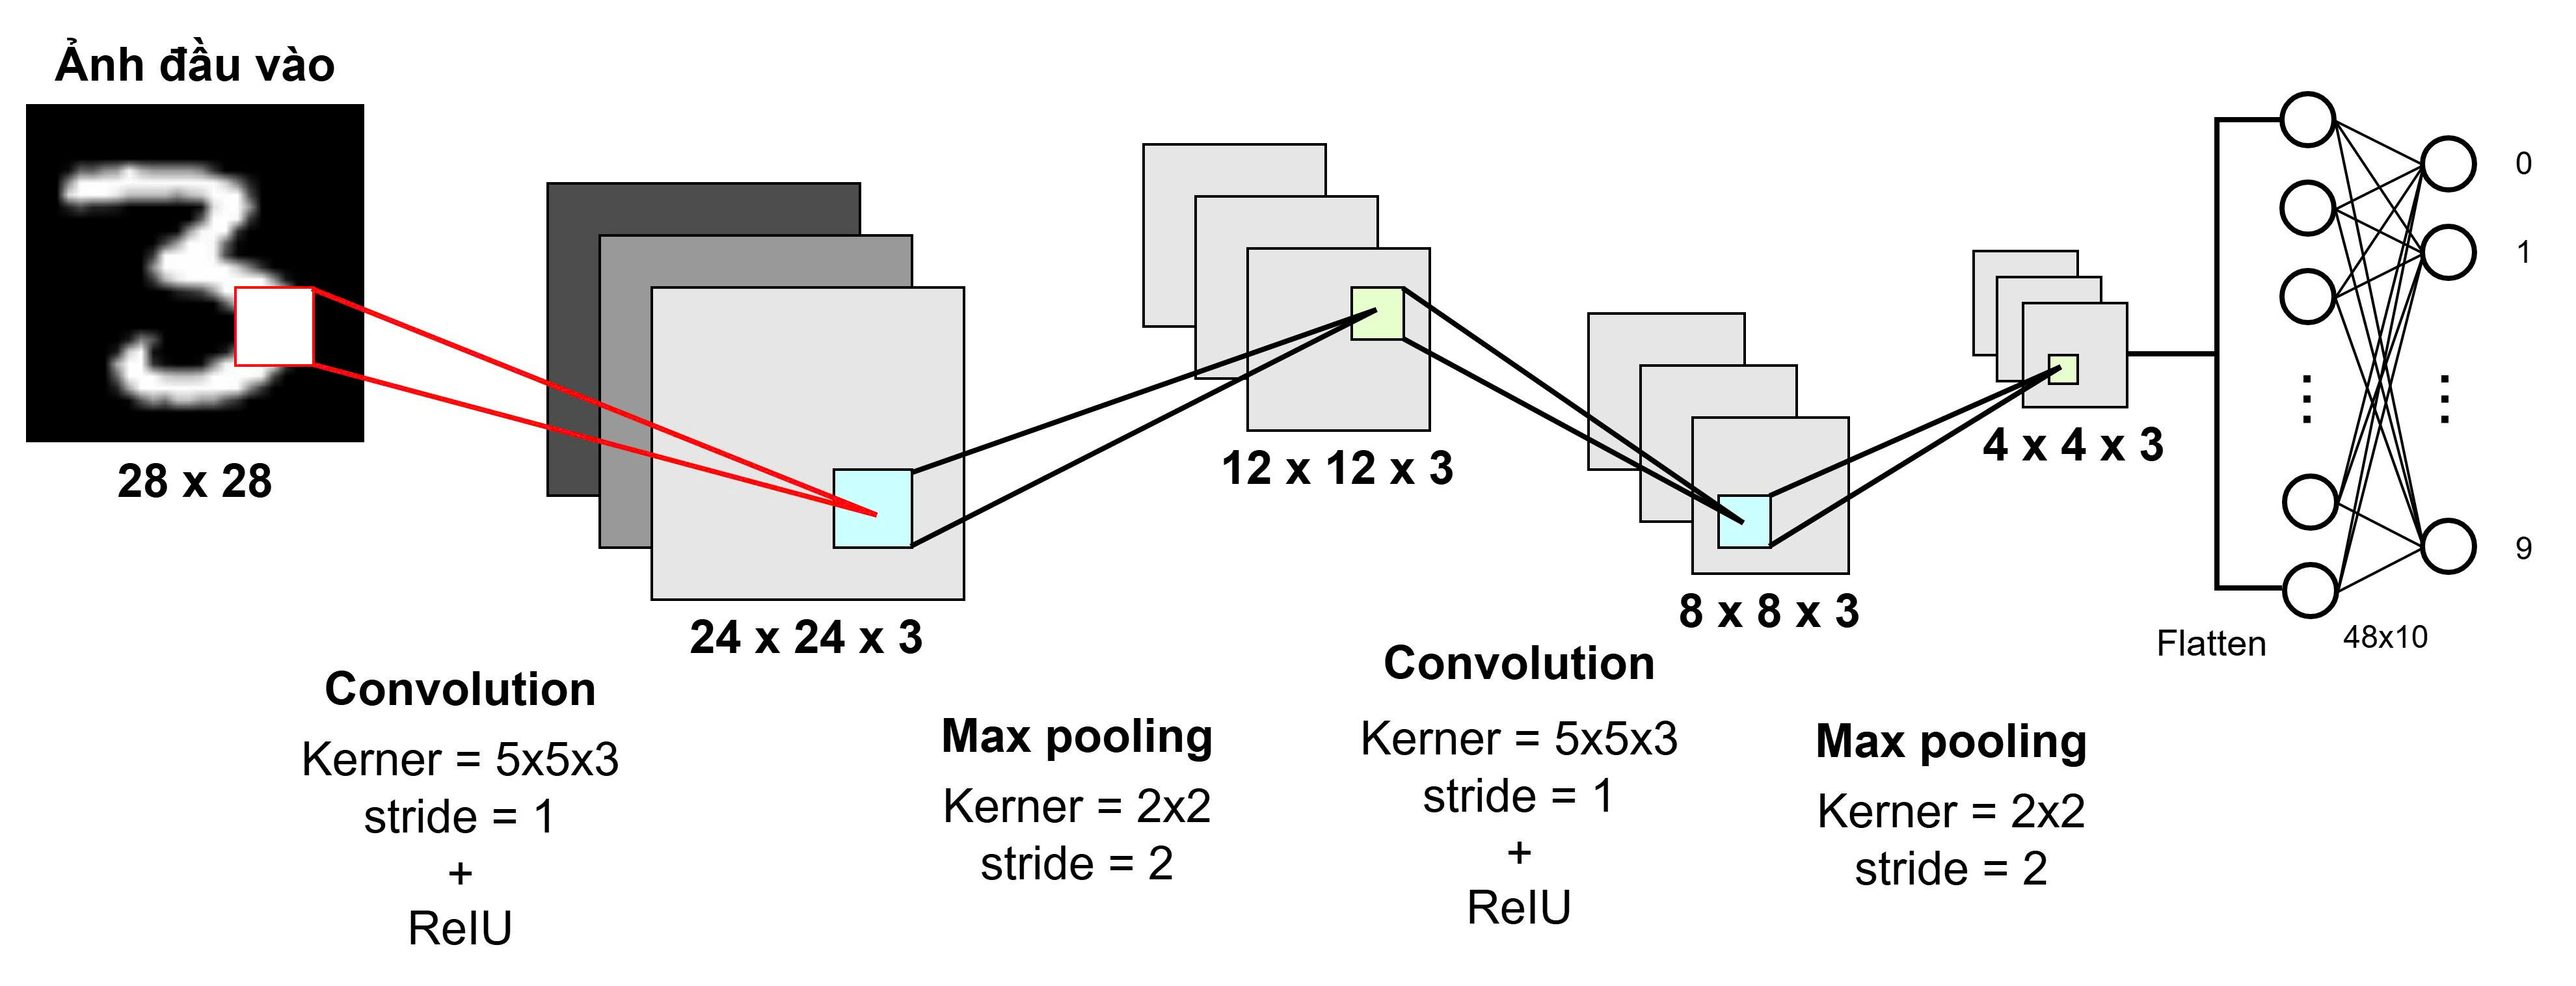
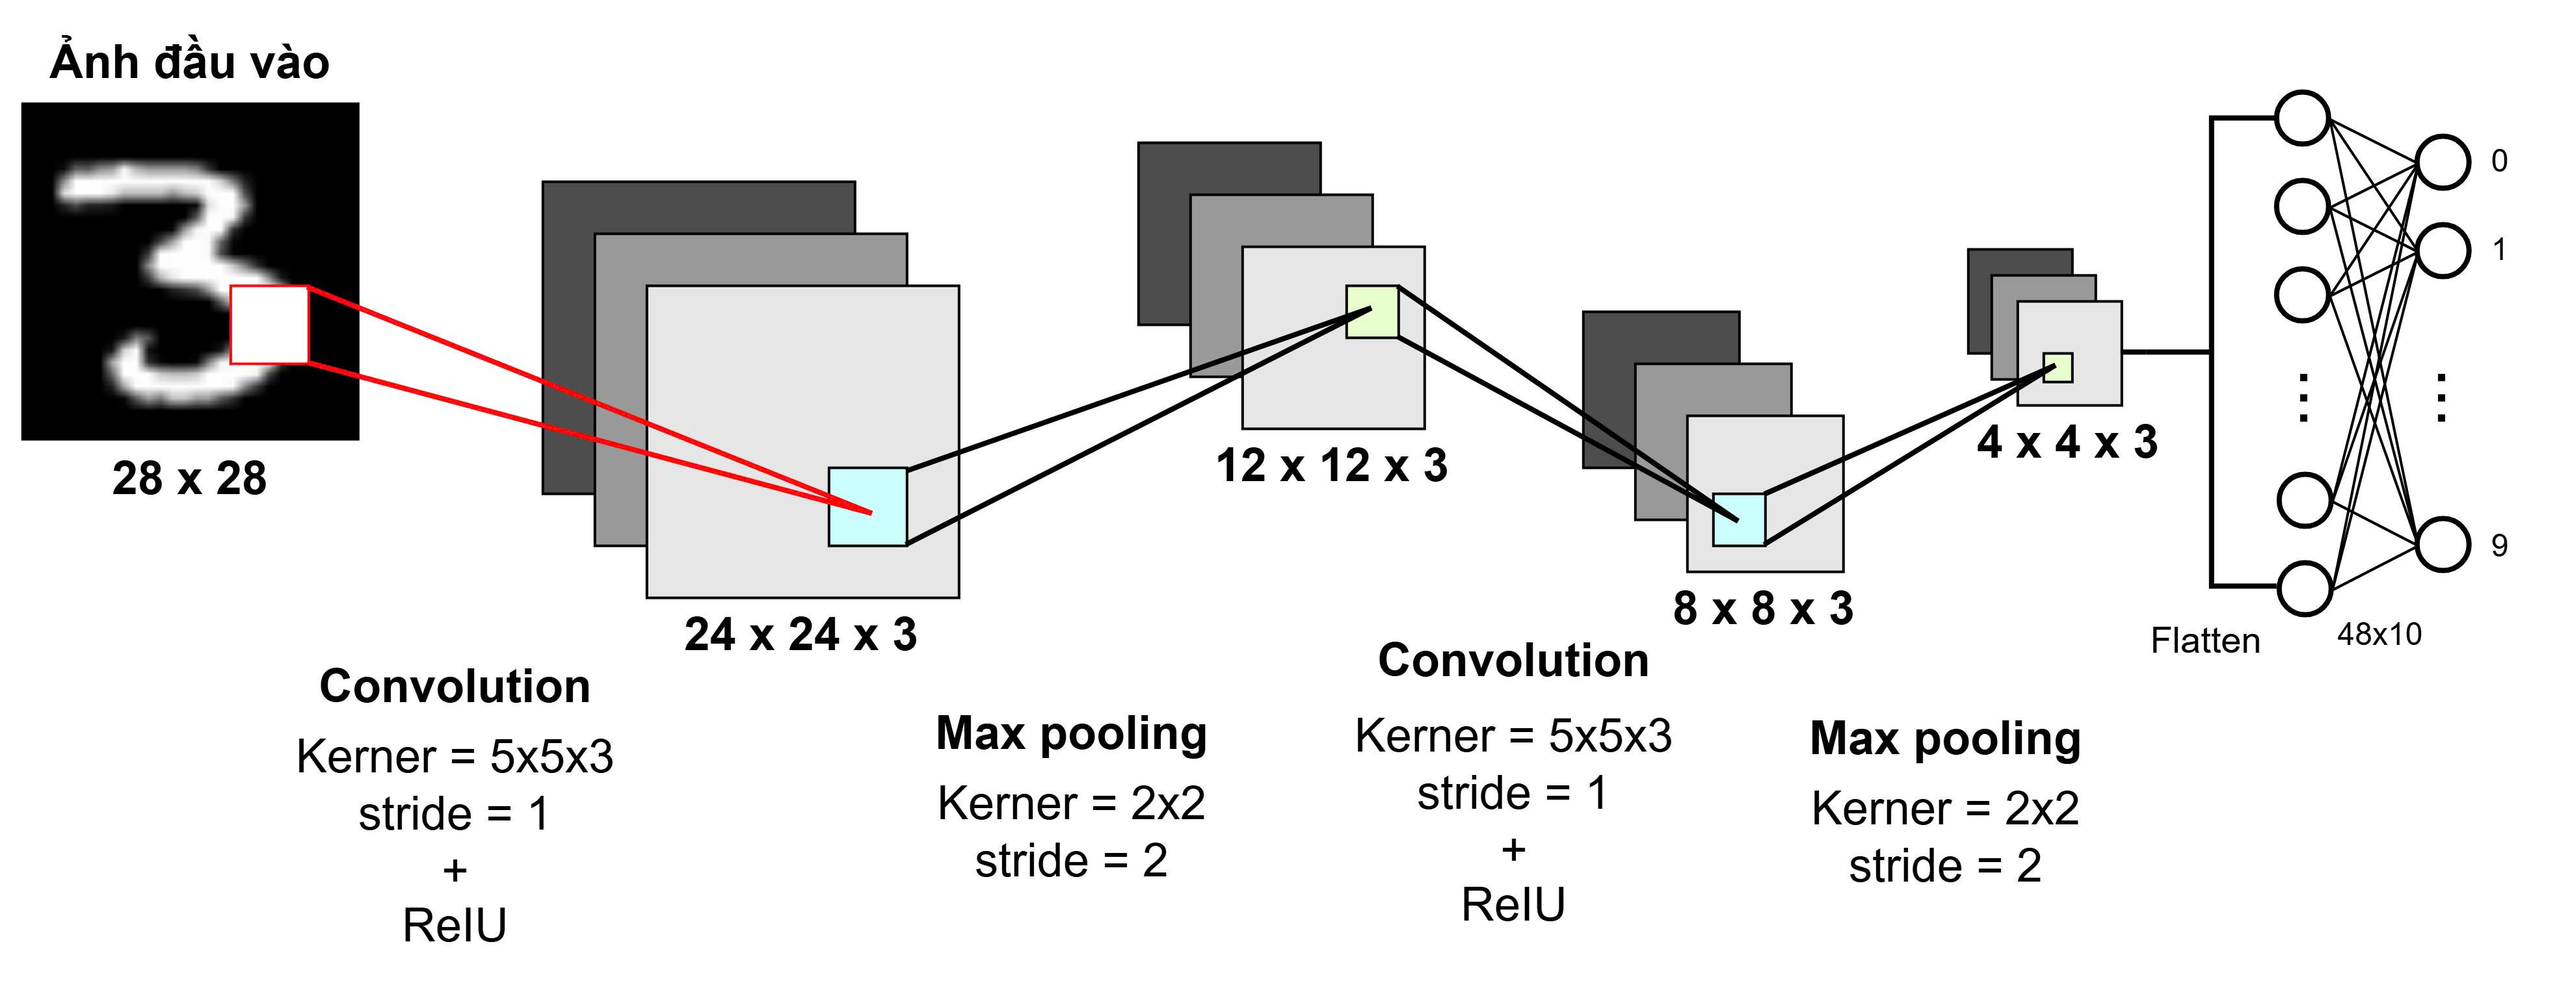
260903

diff --git a/Vid2/readme.md b/Vid2/readme.md
@@ -26,7 +26,7 @@ Khi thiết kế bộ tăng tốc CNN trên FPGA, **số lượng tham số (Wei
 flowchart TD
     subgraph OnChip["Bộ nhớ nội (On-chip Block RAM / BRAM)"]
         B1["Dung lượng giới hạn (Vài trăm KB đến vài MB)"]
-        B2["Băng thông cực cao (Truy xuất song song đa cổng)"]
+        B2["Băng thông cao (Truy xuất song song đa cổng)"]
         B3["Độ trễ thấp (1-2 chu kỳ xung nhịp)"]
         B4["Điều khiển trực tiếp từ RTL dễ dàng"]
     end
@@ -67,14 +67,14 @@ Khi tìm kiếm các kiến trúc mô hình CNN trên GitHub hoặc tài liệu 
 ├──────────────────────────────────────┤  ├──────────────────────────────────────┤
 │ • Dùng ít loại layer cơ bản:         │  │ • Dùng nhiều loại layer phức tạp:    │
 │   Conv standard, MaxPool, Dense      │  │   Separable Conv, Depthwise, Dropout │
-│ • Thiết kế HDL (Verilog) ĐƠN GIẢN    │  │ • Thiết kế HDL CỰC KỲ PHỨC TẠP       │
-│ • Tốn nhiều thanh ghi/BRAM hơn       │  │ • Tiết kiệm tham số nhưng tốn công    │
+│ • Thiết kế HDL (Verilog) ĐƠN GIẢN    │  │ • Thiết kế HDL PHỨC TẠP              │
+│ • Tốn nhiều thanh ghi/BRAM hơn       │  │ • Tiết kiệm tham số nhưng tốn công   │
 └──────────────────────────────────────┘  └──────────────────────────────────────┘
 ```
 
 ### Nguyên tắc đánh đổi (Trade-off) trong thiết kế phần cứng:
-* Thiết kế phần cứng bằng ngôn ngữ mô tả phần cứng thuần (Pure HDL như Verilog/VHDL) là một công việc tốn rất nhiều thời gian và công sức (tedious and time-consuming).
-* Một mô hình dù có số tham số ít hơn nhưng nếu sử dụng quá nhiều loại layer "lạ" (như Depthwise Separable Conv, Group Conv, v.v.) sẽ đòi hỏi viết và kiểm thử rất nhiều module RTL riêng biệt.
+* Thiết kế phần cứng bằng ngôn ngữ mô tả phần cứng thuần (Pure HDL như Verilog/VHDL) là một công việc tốn nhiều thời gian và công sức (tedious and time-consuming).
+* Một mô hình dù có số tham số ít hơn nhưng nếu sử dụng quá nhiều loại layer "lạ" (như Depthwise Separable Conv, Group Conv, v.v.) sẽ đòi hỏi viết và kiểm thử nhiều module RTL riêng biệt.
 * Ngược lại, một mô hình có số tham số vừa phải nhưng sử dụng **các layer chuẩn, đồng nhất (Uniform Layers)** sẽ giúp:
   - Tái sử dụng được module phần cứng (ví dụ: dùng chung logic Conv và MaxPool).
   - Rút ngắn thời gian phát triển và đóng gói RTL.
@@ -88,7 +88,7 @@ Khi tìm kiếm các kiến trúc mô hình CNN trên GitHub hoặc tài liệu 
   <img src="pic1.jpg" alt="pic1" width="900">
 </p>
 
-Trong dự án này, mô hình được tối ưu với quy mô **dưới 1000 tham số** (chính xác là **796 tham số**), đảm bảo chạy cực nhẹ và hiệu quả trên FPGA:
+Trong dự án này, mô hình được tối ưu với quy mô **dưới 1000 tham số** (chính xác là **796 tham số**), đảm bảo chạy nhẹ và hiệu quả trên FPGA:
 
 ```mermaid
 flowchart LR
@@ -188,7 +188,7 @@ $$\text{Tổng số tham số} = 78 + 228 + 490 = \mathbf{796 \text{ parameters}
   - $796$ tham số dạng 8-bit (`int8`) chỉ chiếm chưa đầy **800 Bytes**.
   - Dung lượng này hoàn toàn nằm gọn trong vài lát LUT hoặc 1 khối BRAM nhỏ nhất của bất kỳ chip FPGA nào (Zynq-7000, UltraScale+, Gowin GW2A-18C).
 * **Độ chính xác (Accuracy):**
-  - Mặc dù số tham số siêu nhỏ ($<1000$), mô hình vẫn đạt độ chính xác **$96\%$ trên tập kiểm thử MNIST (Test set)**.
+  - Mặc dù số tham số nhỏ ($<1000$), mô hình vẫn đạt độ chính xác **$96\%$ trên tập kiểm thử MNIST (Test set)**.
   - Đây là mức cân bằng lý tưởng (sweet spot) giữa hiệu năng nhận dạng và độ phức tạp phần cứng cho các hệ thống nhúng / Edge AI.
 
 ---

diff --git a/Vid1/readme.md b/Vid1/readme.md
@@ -47,9 +47,9 @@ flowchart TD
     end
 
     subgraph FPGA["FPGA (Field-Programmable Gate Array)"]
-        F1["Tiêu thụ điện năng cực thấp (Low Power)"]
+        F1["Tiêu thụ điện năng thấp (Low Power)"]
         F2["Khả năng xử lý song song tuỳ biến (Custom Parallelism)"]
-        F3["Độ trễ thực tế cực nhỏ, cố định (Deterministic Latency)"]
+        F3["Độ trễ thực tế nhỏ, cố định (Deterministic Latency)"]
         F4["Xử lý suy luận trực tiếp tại biên (On-device Edge AI)"]
         F5["Môi trường tạo mẫu (Prototyping) trước khi Tapeout ASIC"]
     end
@@ -110,6 +110,10 @@ Mạng Fully Connected gặp 2 nhược điểm nghiêm trọng khi xử lý hì
 
 ## 5. Mạng nơ-ron tích chập (Convolutional Neural Network - CNN)
 
+<p align="center">
+  <img src="pic3.png" alt="pic3" width="800">
+</p>
+
 Để giải quyết triệt để các hạn chế trên, kiến trúc **CNN** ra đời và trở thành chuẩn mực cho xử lý ảnh.
 
 ### Đặc điểm cốt lõi của CNN:
@@ -161,10 +165,10 @@ Trong đó:
    * Là hàm kích hoạt phổ biến và hiệu quả nhất trong CNN.
    * **Định nghĩa toán học:**
      $$f(x) = \max(0, x) = \begin{cases} x & \text{nếu } x \ge 0 \\ 0 & \text{nếu } x < 0 \end{cases}$$
-   * **Ưu điểm vượt trội của ReLU:**
+   * **Ưu điểm của ReLU:**
      - Giúp mô hình hội tụ nhanh hơn trong quá trình huấn luyện.
      - Tránh hiện tượng triệt tiêu gradient (Vanishing Gradient) như ở hàm Sigmoid/Tanh.
-     - Phép toán cực kỳ đơn giản trên phần cứng (trên phần cứng Verilog chỉ là phép kiểm tra bit dấu: nếu âm thì gán bằng 0, không tốn tài nguyên tính toán mũ/chia).
+     - Phép toán đơn giản trên phần cứng (trên phần cứng Verilog chỉ là phép kiểm tra bit dấu: nếu âm thì gán bằng 0, không tốn tài nguyên tính toán mũ/chia).
 
 ---
 
